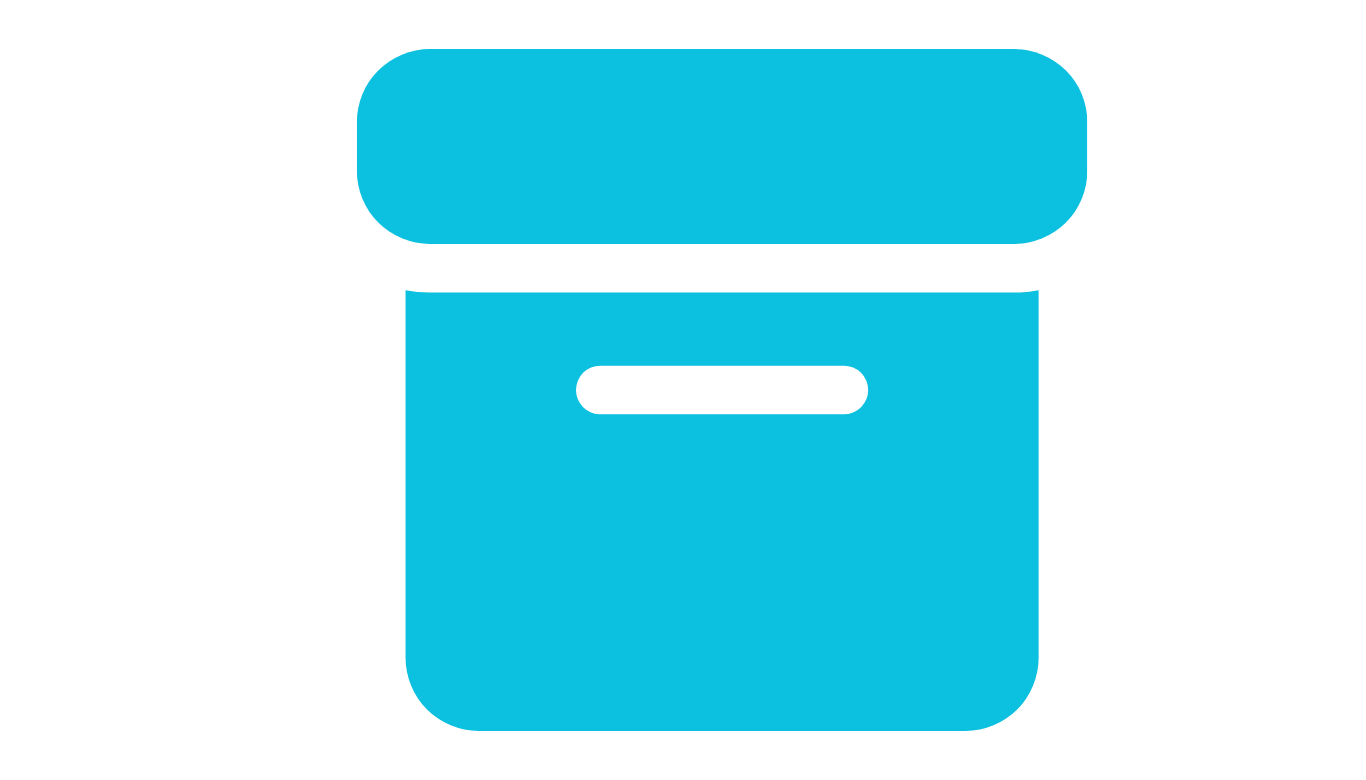
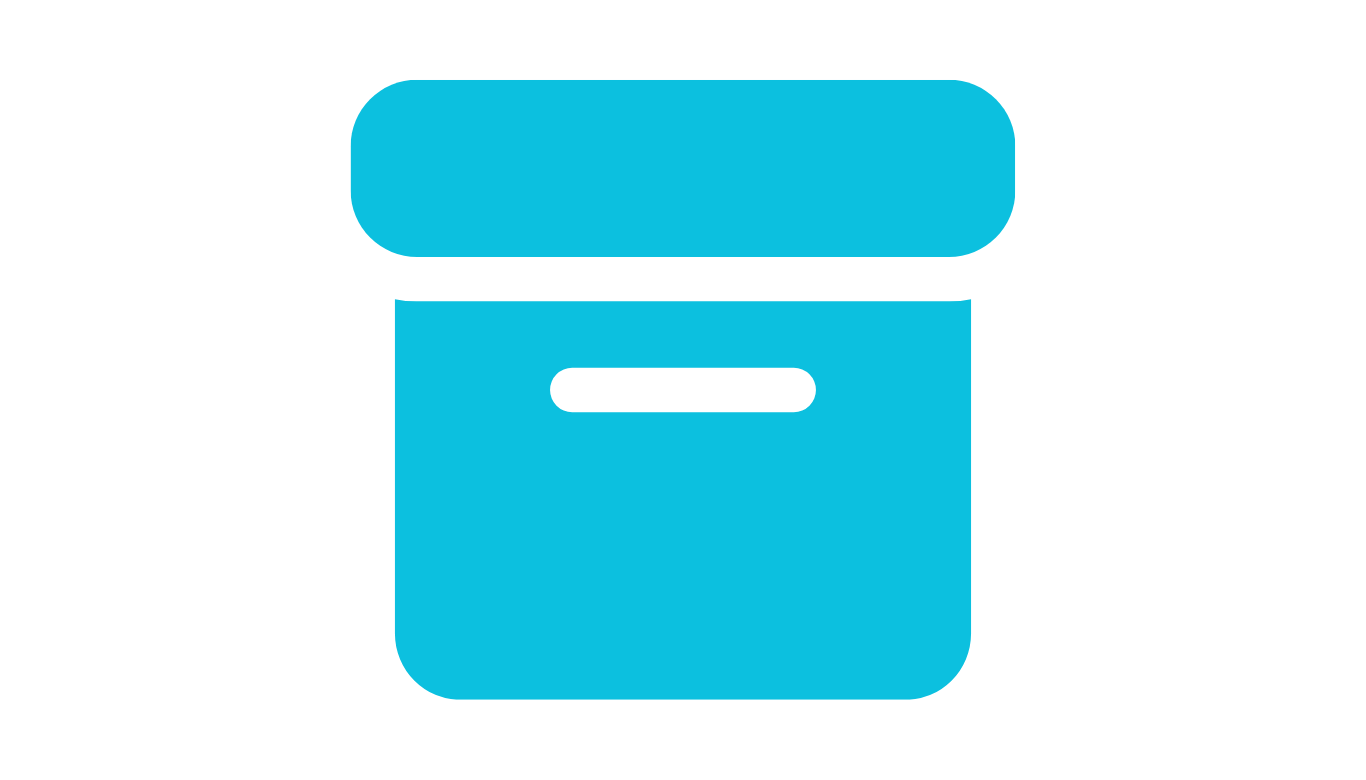
últimas correções de bug

Changed region(s): [[0.2767, 0.3692, 0.7687, 0.9538], [0.246, 0.0615, 0.7994, 0.3385], [0.3997, 0.4615, 0.6457, 0.5538]]

diff --git a/academia/src/pages/HomePage.tsx b/academia/src/pages/HomePage.tsx
@@ -15,7 +15,7 @@ export function HomePage() {
             <p className="gf-action-desc">
               Acesso total aos perfis, histórico e informações de contato dos alunos
             </p>
-            <img src={iconeAlunos} alt="Ícone de Alunos" className="gf-action-icon" />
+            <img src={iconeAlunos} alt="Ícone de Alunos" className="gf-action-icon-alunos" />
           </div>
           <div className="gf-action-footer">
             <span className="gf-action-title"><strong>Gerenciar Alunos</strong></span>
@@ -27,7 +27,7 @@ export function HomePage() {
             <p className="gf-action-desc">
               Crie, edite e personalize as rotinas semanais de treino para a sua equipe
             </p>
-            <img src={iconePlanos} alt="Ícone de Planos" className="gf-action-icon" />
+            <img src={iconePlanos} alt="Ícone de Planos" className="gf-action-icon-planos" />
           </div>
           <div className="gf-action-footer">
             <span className="gf-action-title"><strong>Planos de Treino</strong></span>

diff --git a/academia/src/css/Home.css b/academia/src/css/Home.css
@@ -52,14 +52,20 @@
   opacity: 0.8;
 }
 
-.gf-action-icon {
+.gf-action-icon-alunos {
   width: 310px;
+  height: 200px;
+  margin: auto 0;
+}
+
+.gf-action-icon-planos {
+  width: 330px;
   height: 210px;
   margin: auto 0;
 }
 
 .gf-action-icon-exercicios {
-  width: 450px;
+  width: 430px;
   height: 210px;
   margin: auto 0;
 }

diff --git a/academia/src/css/ListaAlunos.css b/academia/src/css/ListaAlunos.css
@@ -5,6 +5,8 @@
   width: 100%;
   max-width: 1140px;
   min-height: calc(100vh - 160px);
+  margin:auto;
+  margin-top: 50px;
 }
 
 .panel-header {

diff --git a/academia/src/css/ListaExercicio.css b/academia/src/css/ListaExercicio.css
@@ -5,6 +5,8 @@
   width: 100%;
   max-width: 1140px;
   min-height: calc(100vh - 160px);
+  margin:auto;
+  margin-top: 50px;
 }
 
 .panel-header {
